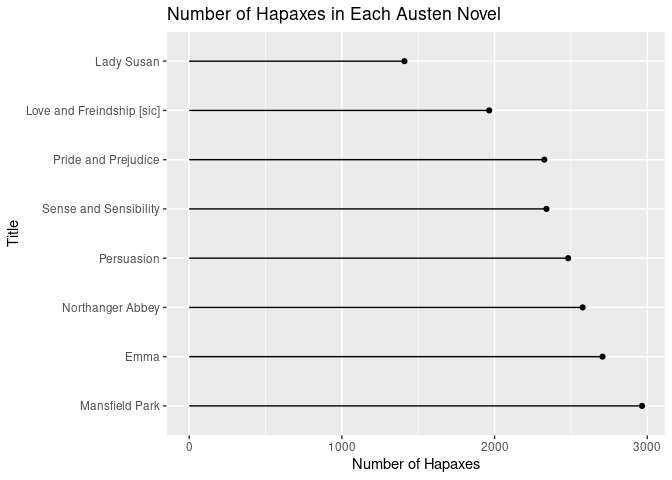
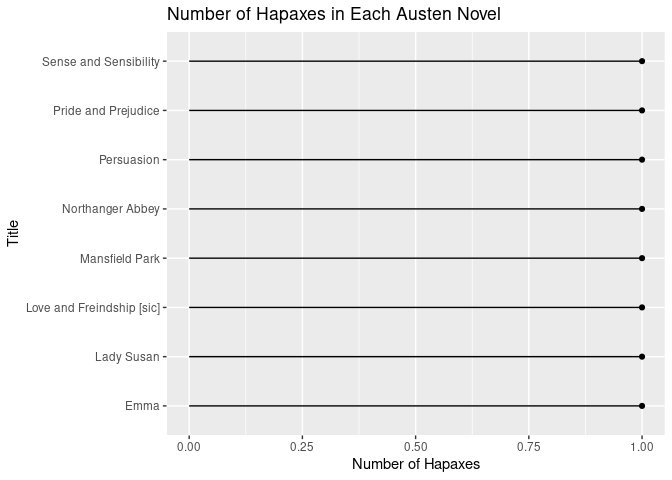
Include hapax percent of total words

diff --git a/dickens_hapax.md b/dickens_hapax.md
@@ -1,7 +1,7 @@
 ---
 title: "Charles Dickens Hapax"
 author: "Stephen Kaluzny"
-date: "29 May, 2022"
+date: "06 June, 2022"
 output:
   html_document:
     keep_md: yes
@@ -209,6 +209,45 @@ book_word_counts
 ## # … with 204,229 more rows
 ```
 
+## Words Per Book
+
+```r
+words_per_book <- book_word_counts |>
+  group_by(title) |>
+  summarise(total_words = sum(n), unique_words = length(word))
+```
+
+
+```r
+words_per_book
+```
+
+```
+## # A tibble: 20 × 3
+##    title                                                total_words unique_words
+##    <chr>                                                      <int>        <int>
+##  1 "A Christmas Carol"                                        10162         3917
+##  2 "A Tale of Two Cities"                                     46288         9132
+##  3 "Barnaby Rudge: A Tale of the Riots of 'Eighty"            87155        12467
+##  4 "Bleak House"                                             111535        14656
+##  5 "David Copperfield"                                       108448        13636
+##  6 "Dombey and Son"                                          122150        14441
+##  7 "Great Expectations"                                       56130        10183
+##  8 "Hard Times"                                               33740         8194
+##  9 "Little Dorrit"                                           107682        14411
+## 10 "Martin Chuzzlewit"                                       111748        15046
+## 11 "Nicholas Nickleby"                                       113185        14306
+## 12 "Oliver Twist"                                             56255         9578
+## 13 "Our Mutual Friend"                                       108349        14316
+## 14 "The Battle of Life. A Love Story"                         10552         3872
+## 15 "The Chimes\r\nA Goblin Story of Some Bells That Ra…       10355         3728
+## 16 "The Cricket on the Hearth"                                10679         3904
+## 17 "The Haunted Man and the Ghost's Bargain"                  10757         3847
+## 18 "The Mystery of Edwin Drood"                               32654         8647
+## 19 "The Old Curiosity Shop"                                   73959        11406
+## 20 "The Pickwick Papers"                                     114235        14552
+```
+
 ## Hapax in Each Book
 
 Hapax (count == 1) words by book:
@@ -249,7 +288,49 @@ book_hapax_words
 ## # … with 87,891 more rows
 ```
   
-Number of hapax per book.
+Number of hapax per book,
+combined with total number of words and number of unique words.
+
+
+```r
+book_hapax_words <- book_hapax_words |> group_by(title) |>
+  summarise(n_hapax = n()) |>
+  ungroup() |>
+  left_join(words_per_book, by="title") |>
+  mutate(percent_hapax_total = n_hapax / total_words * 100,
+    percent_hapax_unique = n_hapax / unique_words * 100)
+```
+
+```r
+knitr::kable(book_hapax_words, format.args=list(digits = 4))
+```
+
+
+
+|title                                                                              | n_hapax| total_words| unique_words| percent_hapax_total| percent_hapax_unique|
+|:----------------------------------------------------------------------------------|-------:|-----------:|------------:|-------------------:|--------------------:|
+|A Christmas Carol                                                                  |    2366|       10162|         3917|              23.283|                60.40|
+|A Tale of Two Cities                                                               |    4156|       46288|         9132|               8.979|                45.51|
+|Barnaby Rudge: A Tale of the Riots of 'Eighty                                      |    4921|       87155|        12467|               5.646|                39.47|
+|Bleak House                                                                        |    5820|      111535|        14656|               5.218|                39.71|
+|David Copperfield                                                                  |    5403|      108448|        13636|               4.982|                39.62|
+|Dombey and Son                                                                     |    5517|      122150|        14441|               4.517|                38.20|
+|Great Expectations                                                                 |    4515|       56130|        10183|               8.044|                44.34|
+|Hard Times                                                                         |    4147|       33740|         8194|              12.291|                50.61|
+|Little Dorrit                                                                      |    5704|      107682|        14411|               5.297|                39.58|
+|Martin Chuzzlewit                                                                  |    6085|      111748|        15046|               5.445|                40.44|
+|Nicholas Nickleby                                                                  |    5430|      113185|        14306|               4.797|                37.96|
+|Oliver Twist                                                                       |    4115|       56255|         9578|               7.315|                42.96|
+|Our Mutual Friend                                                                  |    5627|      108349|        14316|               5.193|                39.31|
+|The Battle of Life. A Love Story                                                   |    2341|       10552|         3872|              22.185|                60.46|
+|The Chimes
+A Goblin Story of Some Bells That Rang an Old Year out and a New Year In |    2240|       10355|         3728|              21.632|                60.09|
+|The Cricket on the Hearth                                                          |    2389|       10679|         3904|              22.371|                61.19|
+|The Haunted Man and the Ghost's Bargain                                            |    2316|       10757|         3847|              21.530|                60.20|
+|The Mystery of Edwin Drood                                                         |    4423|       32654|         8647|              13.545|                51.15|
+|The Old Curiosity Shop                                                             |    4667|       73959|        11406|               6.310|                40.92|
+|The Pickwick Papers                                                                |    5719|      114235|        14552|               5.006|                39.30|
+
 
 ```r
 book_hapax_words |> group_by(title) |>

diff --git a/austen_hapax.md b/austen_hapax.md
@@ -1,7 +1,7 @@
 ---
 title: "Jane Austen Hapax"
 author: "Stephen Kaluzny"
-date: "30 May, 2022"
+date: "03 June, 2022"
 output:
   html_document:
     keep_md: yes
@@ -280,15 +280,44 @@ book_hapax_words
 ## # … with 18,763 more rows
 ```
   
-Number of hapax per book.
+Number of hapaxes per book,
+combined with total number of words and number of unique words.
+
+
+```r
+book_hapax_words <- book_hapax_words |> group_by(title) |>
+  summarise(n_hapax = n()) |>
+  ungroup() |>
+  left_join(words_per_book, by="title") |>
+  mutate(percent_hapax_total = n_hapax / total_words * 100,
+    percent_hapax_unique = n_hapax / unique_words * 100)
+```
+
+```r
+knitr::kable(book_hapax_words, format.args=list(digits = 4))
+```
+
+
+
+|title                     | n_hapax| total_words| unique_words| percent_hapax_total| percent_hapax_unique|
+|:-------------------------|-------:|-----------:|------------:|-------------------:|--------------------:|
+|Emma                      |    2707|       46549|         6565|               5.815|                41.23|
+|Lady Susan                |    1410|        7157|         2495|              19.701|                56.51|
+|Love and Freindship [sic] |    1965|       11209|         3718|              17.531|                52.85|
+|Mansfield Park            |    2966|       47466|         7220|               6.249|                41.08|
+|Northanger Abbey          |    2577|       23816|         5495|              10.820|                46.90|
+|Persuasion                |    2482|       25487|         5303|               9.738|                46.80|
+|Pride and Prejudice       |    2326|       37010|         5736|               6.285|                40.55|
+|Sense and Sensibility     |    2340|       36388|         5794|               6.431|                40.39|
+
 
 ```r
 book_hapax_words |> group_by(title) |>
-  summarise(Nhapax = n()) |>
-  arrange(desc(Nhapax)) |>
-  ggplot(aes(y=factor(title, levels=title), x=Nhapax)) +
+  summarise(n_hapax = n()) |>
+  arrange(desc(n_hapax)) |>
+  ggplot(aes(y=factor(title, levels=title), x=n_hapax)) +
     geom_point() +
-    geom_segment(aes(x=0, xend=Nhapax, y=title, yend=title)) +
+    geom_segment(aes(x=0, xend=n_hapax, y=title, yend=title)) +
     ggtitle("Number of Hapaxes in Each Austen Novel") +
     ylab("Title") +
     xlab("Number of Hapaxes")
